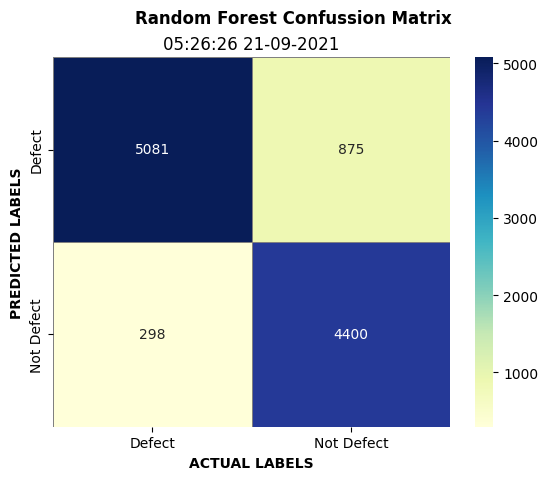
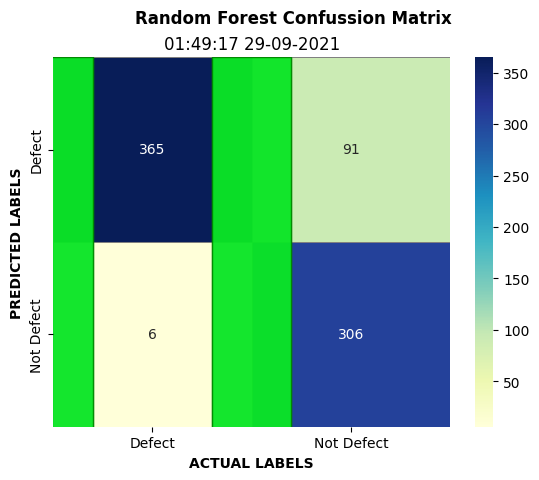
Create: create results for current available models

diff --git a/src/models/random_forest.py b/src/models/random_forest.py
@@ -181,7 +181,7 @@ def console_log(y_test, y_test_predict, y_validation, y_validation_predict, file
     y_test,
     X_validation,
     y_validation,
-) = preprocess("datasets/processed/big_data1.csv")    # NOTE: To use different dataset, change the dataset file HERE!
+) = preprocess("datasets/processed/pc4.csv")    # NOTE: To use different dataset, change the dataset file HERE!
 
 rf_model = random_forest(X_ros, y_ros)
 y_test_prediction = rf_model.predict(X_test)

diff --git a/src/models/lstm.py b/src/models/lstm.py
@@ -162,6 +162,7 @@ def console_log(y_test, y_test_prediction, y_validation, y_validation_prediction
         file=file
     )
     print("Author: ", getpass.getuser(), file=file)
+    print("File: ", file)
     print(file=file)
     print("|---------- Test Score -----------|", file=file)
     print("|---------------------------------|", file=file)
